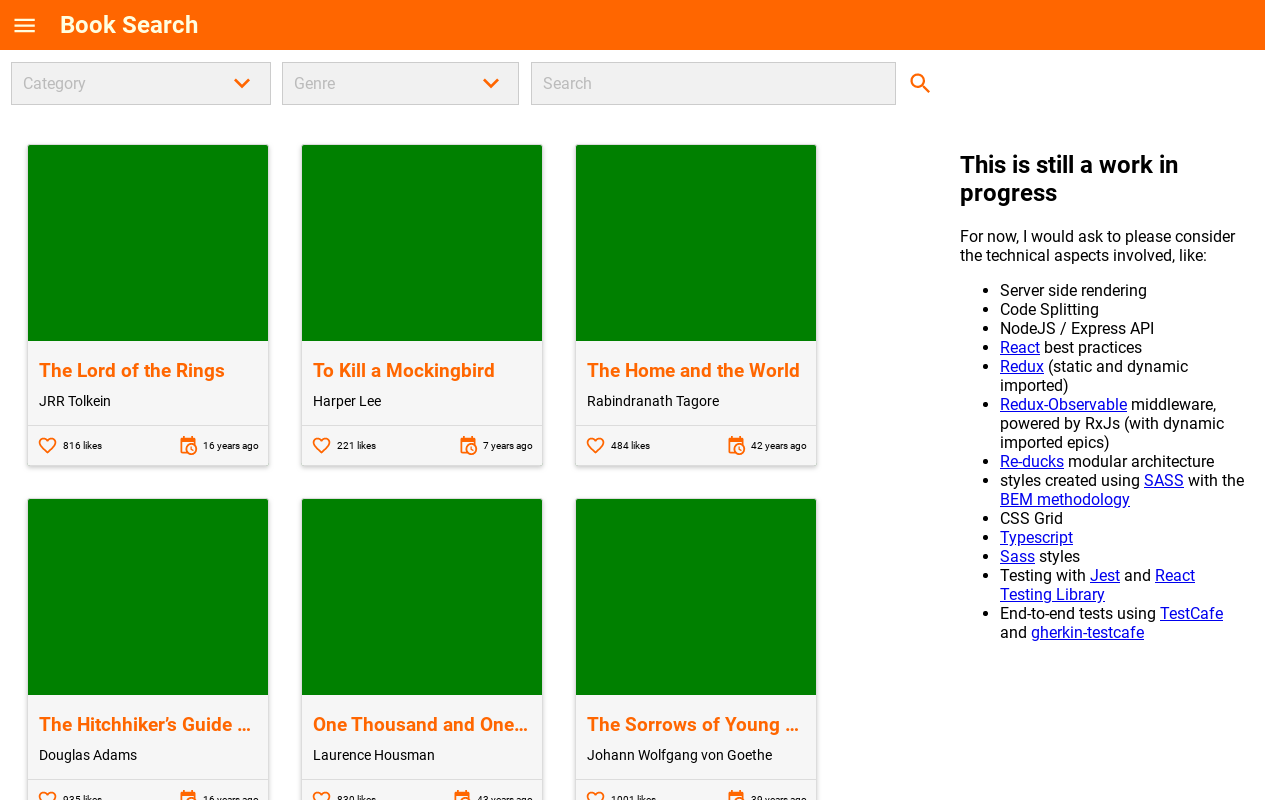
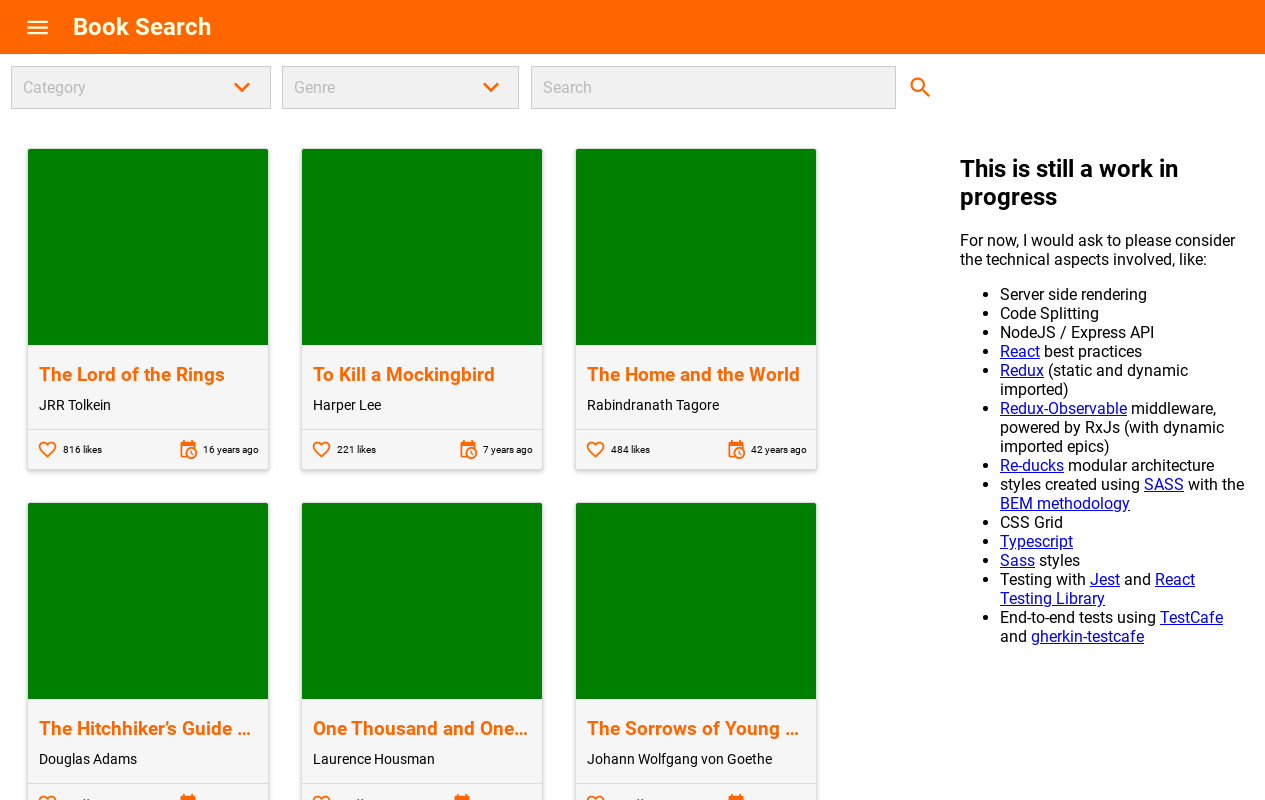
Toolbar adjustments

diff --git a/src/components/Toolbar/story.tsx b/src/components/Toolbar/story.tsx
@@ -5,19 +5,20 @@ import React from 'react';
 import menuIcon from '@mdi/svg/svg/menu.svg';
 import searchIcon from '@mdi/svg/svg/magnify.svg';
 import Toolbar from './index';
+import SvgButton from '../SvgButton';
 
-storiesOf('Toolbar', module).add('default', () => (
-  <Toolbar
-    icon={
-      <svg viewBox={menuIcon.viewBox} onClick={action('menuClick')}>
-        <use xlinkHref={`#${menuIcon.id}`} />
-      </svg>
-    }
-    title="Title"
-  >
-    <div onClick={action('action1')}>some action</div>
-    <svg viewBox={searchIcon.viewBox} onClick={action('action2')}>
-      <use xlinkHref={`#${searchIcon.id}`} />
-    </svg>
-  </Toolbar>
-));
+storiesOf('Toolbar', module)
+  .add('default', () => (
+    <Toolbar icon={menuIcon} title="Title" onMenuClick={action('onMenuClick')} />
+  ))
+  .add('one action', () => (
+    <Toolbar icon={menuIcon} title="Title" onMenuClick={action('onMenuClick')}>
+      <SvgButton invertedColor icon={searchIcon} onClick={action('action click')} />
+    </Toolbar>
+  ))
+  .add('multiple actions', () => (
+    <Toolbar icon={menuIcon} title="Title" onMenuClick={action('onMenuClick')}>
+      <SvgButton invertedColor icon={searchIcon} onClick={action('action click')} />
+      <div onClick={action('other action click')}>text action</div>
+    </Toolbar>
+  ));

diff --git a/src/components/Toolbar/style.scss b/src/components/Toolbar/style.scss
@@ -9,11 +9,12 @@
   display: flex;
   flex-flow: row nowrap;
   align-items: center;
-  padding: get($spaces, 1000);
+  padding: get($spaces, 1000) get($spaces, 1500);
   position: sticky;
   top: 0;
   left: 0;
   z-index: 3;
+  height: get($spaces, 2000);
 
   &__icon {
     flex: 0 0 auto;

diff --git a/src/components/scss/_variables.scss b/src/components/scss/_variables.scss
@@ -18,6 +18,7 @@ $spaces: (
   border-radius: 3px,
   500: 0.3em,
   1000: 0.7em,
+  1500: 1.5em,
   2000: 2em
 );
 
